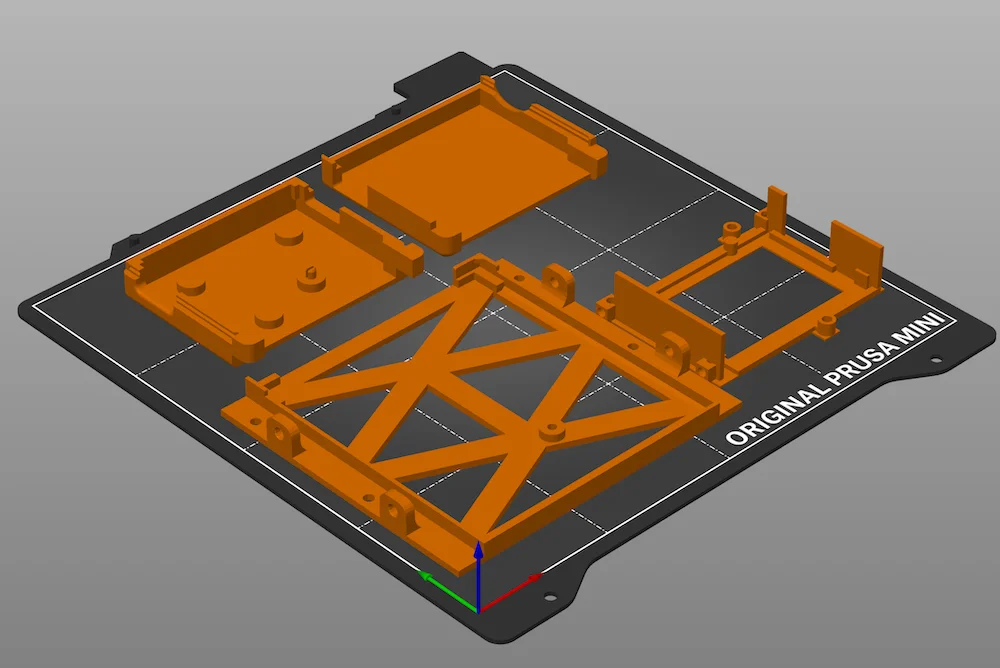
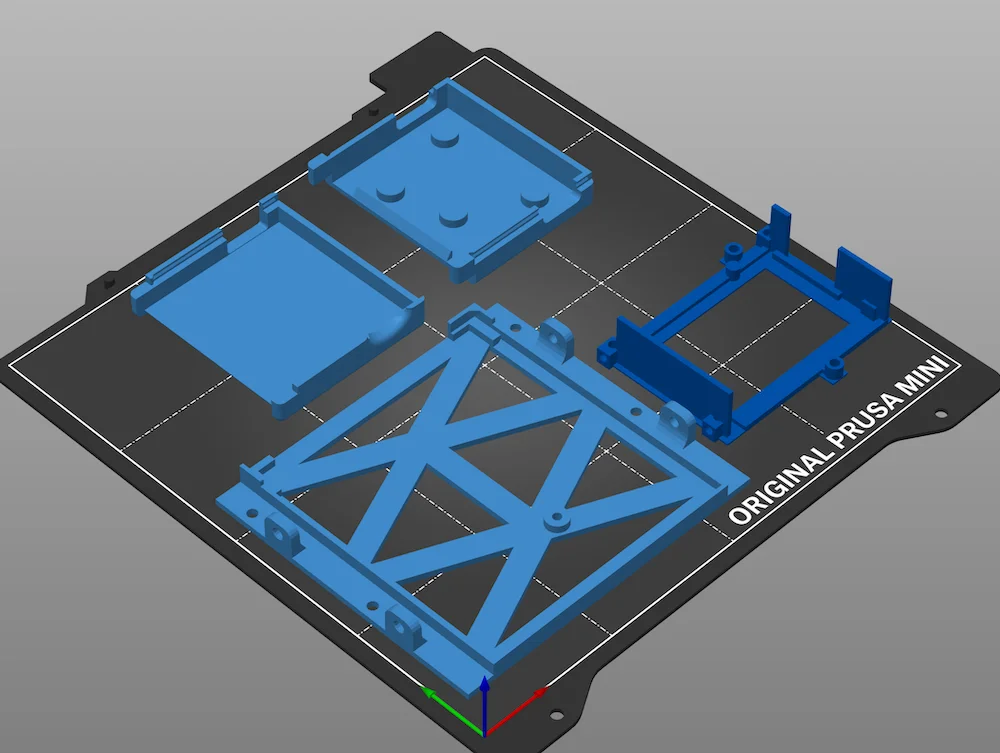
update 3d print for db25

diff --git a/_includes/carousel4.html b/_includes/carousel4.html
@@ -1,0 +1,24 @@
+<div id="carouselExampleControls" class="carousel carousel-dark slide" data-bs-ride="carousel">
+  <div class="carousel-inner">
+    <div class="carousel-item active">
+      <img src="{{page.cart_image}}" class="d-block w-100" alt="{{page.cart_description}}">
+    </div>
+    <div class="carousel-item">
+      <img src="{{page.cart_image1}}" class="d-block w-100" alt="{{page.cart_description}}">
+    </div>
+    <div class="carousel-item">
+      <img src="{{page.cart_image2}}" class="d-block w-100" alt="{{page.cart_description}}">
+    </div>
+    <div class="carousel-item">
+      <img src="{{page.cart_image3}}" class="d-block w-100" alt="{{page.cart_description}}">
+    </div>
+  </div>
+  <button class="carousel-control-prev" type="button" data-bs-target="#carouselExampleControls" data-bs-slide="prev">
+    <span class="carousel-control-prev-icon" aria-hidden="true"></span>
+    <span class="visually-hidden">Previous</span>
+  </button>
+  <button class="carousel-control-next" type="button" data-bs-target="#carouselExampleControls" data-bs-slide="next">
+    <span class="carousel-control-next-icon" aria-hidden="true"></span>
+    <span class="visually-hidden">Next</span>
+  </button>
+</div>

diff --git a/v23dprintdb25mini2.md b/v23dprintdb25mini2.md
@@ -9,6 +9,7 @@ cart_price: 5
 cart_image: "assets/img/3ddb25O2.webp"
 cart_image1: "assets/img/3ddb25O2a.webp"
 cart_image2: "assets/img/3ddb25O2b.webp"
+cart_image3: "assets/img/3ddb25O2c.webp"
 tags: 
   - scsi
   - print
@@ -16,12 +17,12 @@ tags:
 
 ##### 🇬🇧🇪🇺 DB25 Mini Case 3D Print V2 (Option 2) 🇬🇧🇪🇺
 
-{% include carousel3.html %}
+{% include carousel4.html %}
 
-Please view [3D Print Information Page](/print) for purchasing 3D prints separately. This is to purchase 3D prints when purchasing a BlueSCSI device at the same time as postage is included. This is the second option case for the V2 DB25 Mini BlueSCSI. This helps protect the V2 DB25 Mini BlueSCSI externally. For the 2023.06a and 2024.01a board revisions. This case was created for the 2023.06a version, but the 2024.01a version fits (since it is a reduced width) with a caveat that you might need some double sided tape or similar to keep it in place since there is no mounting hole on the PCB. Also since this print is wider than the PCB, there are certain situations that ports next to the SCSI port will be blocked by this print. Please check your ports!
+Please view [3D Print Information Page](/print) for purchasing 3D prints separately. This is to purchase 3D prints when purchasing a BlueSCSI device at the same time as postage is included. This is the second option case for the V2 DB25 Mini BlueSCSI. This helps protect the V2 DB25 Mini BlueSCSI externally. For the 2024.01a board revision ONLY. This case is a slide fit design and is much studier than the standard case
 
 * 3D PLA print (fossil grey)
-* Fits both the Mini DB25 versions (2023.06a and 2024.01a)
+* Fits ONLY the 2024.01a Mini DB25 version
 * Slide fit and solid
 * ONLY for purchase with a BlueSCSI
 

diff --git a/picowifi.md b/picowifi.md
@@ -12,7 +12,7 @@ tags:
   - v2
 ---
 
-##### 🇬🇧🇪🇺 BlueSCSI Pico Wifi Upgrade 🇬🇧🇪🇺
+##### 🇬🇧🇪🇺🇺🇸 BlueSCSI Pico Wifi Upgrade 🇬🇧🇪🇺🇺🇸
 
 {% include carousel2.html %}
 
